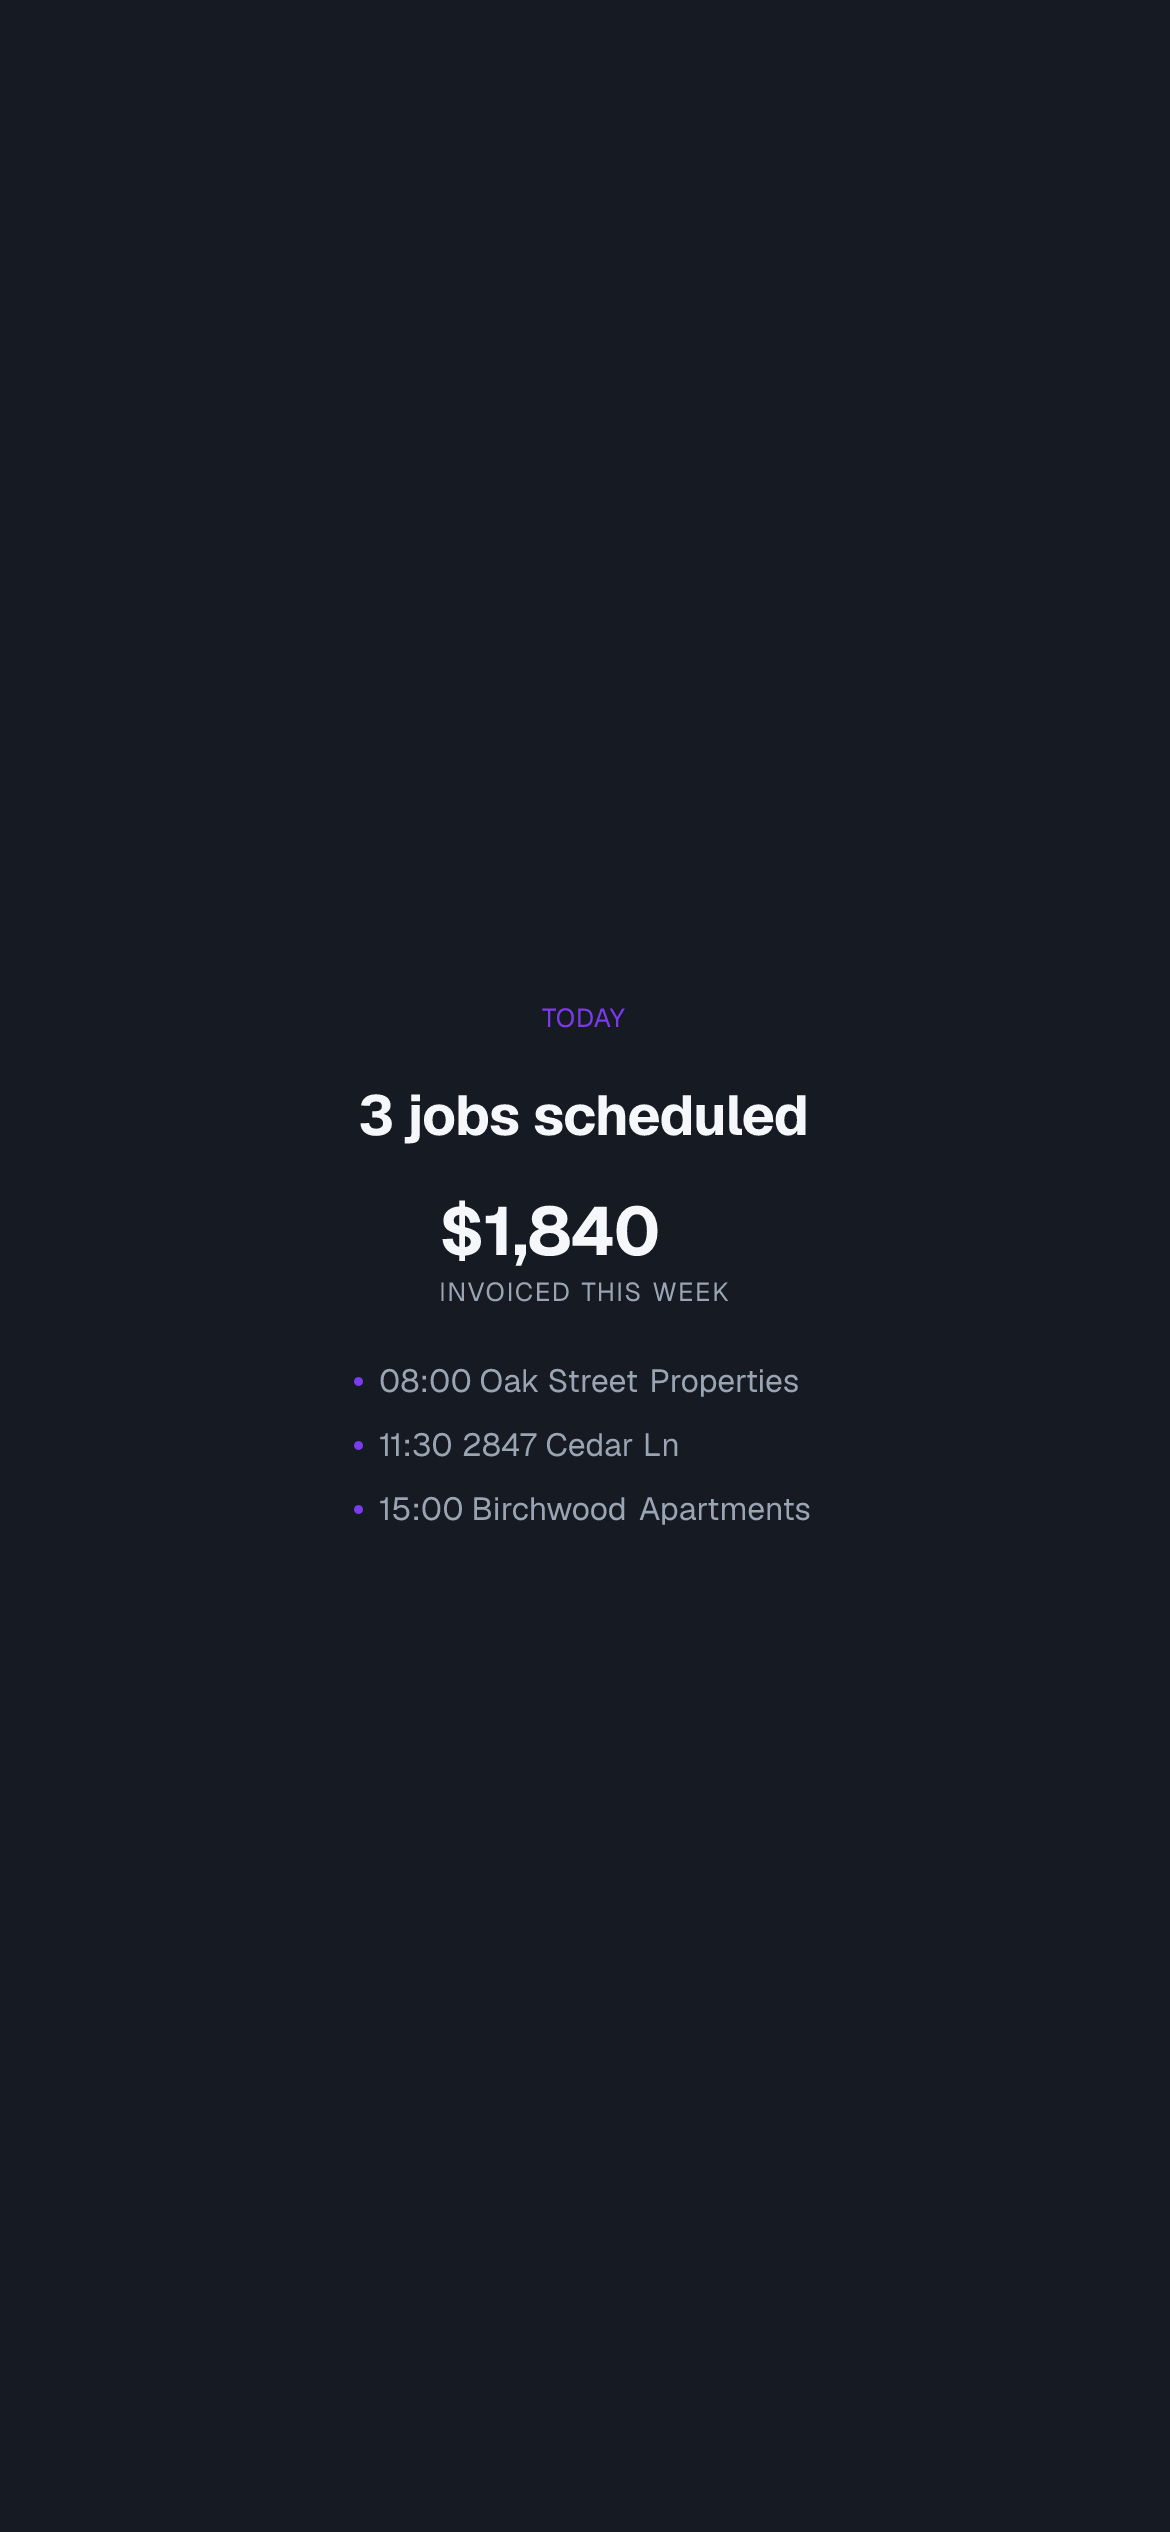
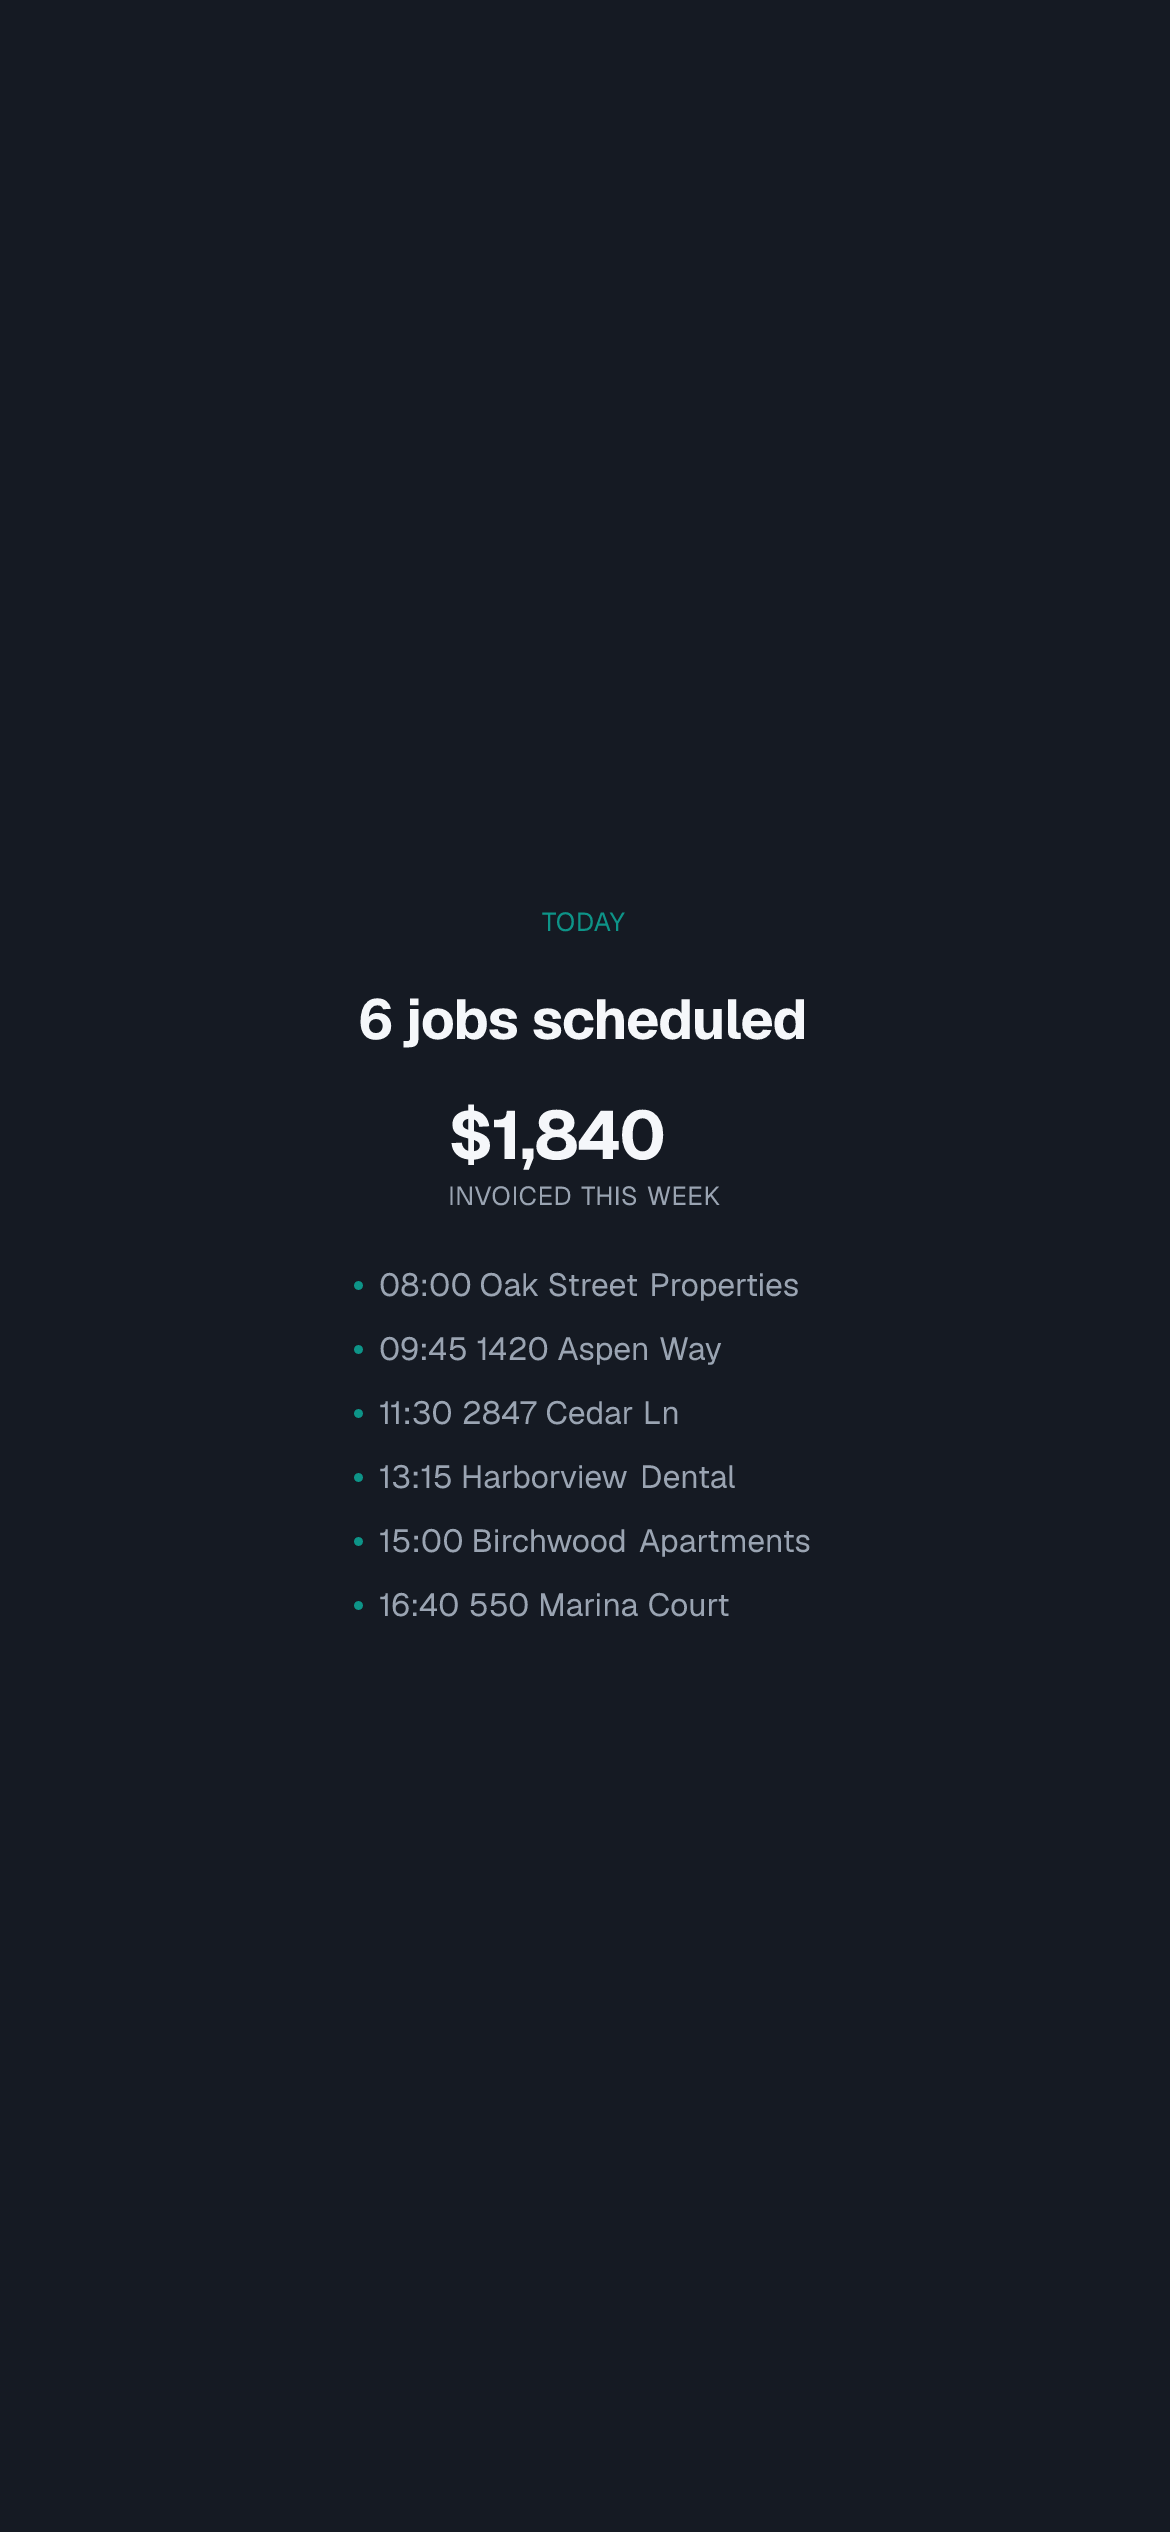
feat(example): render the source app in a light and a dark theme
The README's two images are now the same spec in two themes rather than two
unrelated assets, which is the claim the project makes, shown instead of
asserted. `configs/light.config.ts` spreads the base config and overrides four
colours; `accent` is inherited rather than restated so the themes cannot drift.

`app-screen.spec.json` renders twice, once per theme, with `--out` keeping the
second from overwriting the first. The screen's content therefore lives in one
file. Only the framing spec is duplicated, because a `DeviceFrame` src is a
literal path and cannot vary by config.

This also gives `--config` a consumer-side test. It was covered by the CLI's own
unit tests; now the example exercises it the way a stranger would, which is the
standard the rest of this directory is held to.

Two fixes fall out. The committed assets were stale: the earlier `Stat` fix
changed what the app screen renders and nothing regenerated them, so the drift
gate had been failing and the README showed a pre-fix `Stat`. And the device was
invisible on the dark page, because `color.bezel` defaults to the same value as
`canvas`; the example overrides it, which is the supported answer.

The accent moves off purple to a teal that clears 3:1 against both a white and a
dark canvas, since one token has to carry both themes. Background gradients are
now flat fills.

Changed region(s): [[0.3077, 0.3744, 0.7077, 0.6552]]

diff --git a/examples/source-app/test/example.test.ts b/examples/source-app/test/example.test.ts
@@ -13,7 +13,13 @@ const cwd = fileURLToPath(new URL('../', import.meta.url));
  * examples/source-app is a test, not a demo. If this stops rendering, the extension API
  * broke, since the spec exercises a custom block, a custom layout, and a custom preset
  * registered from outside @mediakit/core.
+ *
+ * launch renders through `--config` rather than the config in cwd, so the flag is exercised by
+ * a real consumer rather than only by the CLI's own unit tests. The light config it names is
+ * the same spec in the other theme, which is what the two README images show.
  */
+const LIGHT = ['--config', 'configs/light.config.ts'];
+
 describe('source-app extension API', () => {
   let outDir: string;
 
@@ -31,7 +37,9 @@ describe('source-app extension API', () => {
   });
 
   it('renders the spec end to end at the registered custom preset dimensions', async () => {
-    const code = await runRender(['marketing/launch.spec.json', '--out', outDir], { cwd });
+    const code = await runRender(['marketing/launch.spec.json', '--out', outDir, ...LIGHT], {
+      cwd,
+    });
     expect(code).toBe(0);
 
     const path = join(outDir, 'launch', 'frame-01.png');
@@ -41,7 +49,9 @@ describe('source-app extension API', () => {
   }, 30_000);
 
   it('reproduces the committed PNG byte for byte (the example-level determinism gate)', async () => {
-    const code = await runRender(['marketing/launch.spec.json', '--out', outDir], { cwd });
+    const code = await runRender(['marketing/launch.spec.json', '--out', outDir, ...LIGHT], {
+      cwd,
+    });
     expect(code).toBe(0);
 
     const fresh = await readFile(join(outDir, 'launch', 'frame-01.png'));

diff --git a/examples/source-app/mediakit.config.ts b/examples/source-app/mediakit.config.ts
@@ -117,7 +117,19 @@ const typeStyle = (style: ReturnType<typeof typeToken>, family: string, color: s
 
 export default defineConfig({
   tokens: {
-    color: { accent: '#7C3AED' },
+    /**
+     * The dark half of the pair. `configs/light.config.ts` spreads this and swaps the four
+     * surface colours, which is the whole difference between the two README images: same spec,
+     * same blocks, same layout, different tokens.
+     *
+     * `accent` is a teal dark enough to clear 3:1 against white and light enough to clear it
+     * against the dark canvas, since one value has to carry both themes.
+     *
+     * `bezel` is overridden because the default is the same value as the default `canvas`, so a
+     * device on an unstyled dark page renders as a phone-shaped hole with only its shadow to
+     * separate it. Lifting it a few steps is what makes the store frame read as a device.
+     */
+    color: { accent: '#0D9488', bezel: '#232B3B' },
   },
   blocks: { PricingCard: card },
   layouts: { 'pricing-split': pricingSplit },

diff --git a/examples/source-app/configs/light.config.ts b/examples/source-app/configs/light.config.ts
@@ -1,0 +1,27 @@
+import base from '../mediakit.config.ts';
+
+/**
+ * The light half of the README pair, and the reason the pair is worth showing: `launch.spec.json`
+ * is rendered by this config and nothing else changes. Same custom block, same custom layout,
+ * same custom preset, same copy. Only the four surface colours differ, which is the claim the
+ * project makes in one image.
+ *
+ * `accent` is inherited rather than restated. A second literal here would be the exact drift the
+ * token contract exists to prevent: the two themes would agree until someone changed one.
+ *
+ * Selected with `mediakit render ... --config configs/light.config.ts`, which is also how the
+ * example exercises that flag from outside core.
+ */
+export default {
+  ...base,
+  tokens: {
+    ...base.tokens,
+    color: {
+      ...base.tokens.color,
+      canvas: '#FFFFFF',
+      surface: '#F1F4F7',
+      ink: '#0B0E14',
+      inkMuted: '#5A6472',
+    },
+  },
+};

diff --git a/CHANGELOG.md b/CHANGELOG.md
@@ -55,6 +55,10 @@ the person reading it is you, six months from now, when a project stops building
   in every subsequent tarball. With a wildcard export like `./frame/*` that is not cosmetic: a
   module moved out of the directory stayed importable from the published package anyway. Every
   package now clears `dist` before compiling.
+- **The committed README assets were stale.** `Stat`'s fix below changed what
+  `examples/source-app/marketing/app-screen/frame-01.png` renders, and the assets were not
+  regenerated, so `pnpm render-readme-assets` had been failing since that commit and the store
+  image in the README showed the pre-fix `Stat`. Regenerated.
 - **`Stat` uppercased the value, rewriting the spec author's copy.** `textTransform:
 'uppercase'` was hardcoded past the token spread on both the value and the label, so a spec
   saying `"value": "5 min"` rendered `5 MIN` and no token or prop could turn it off. That is a
